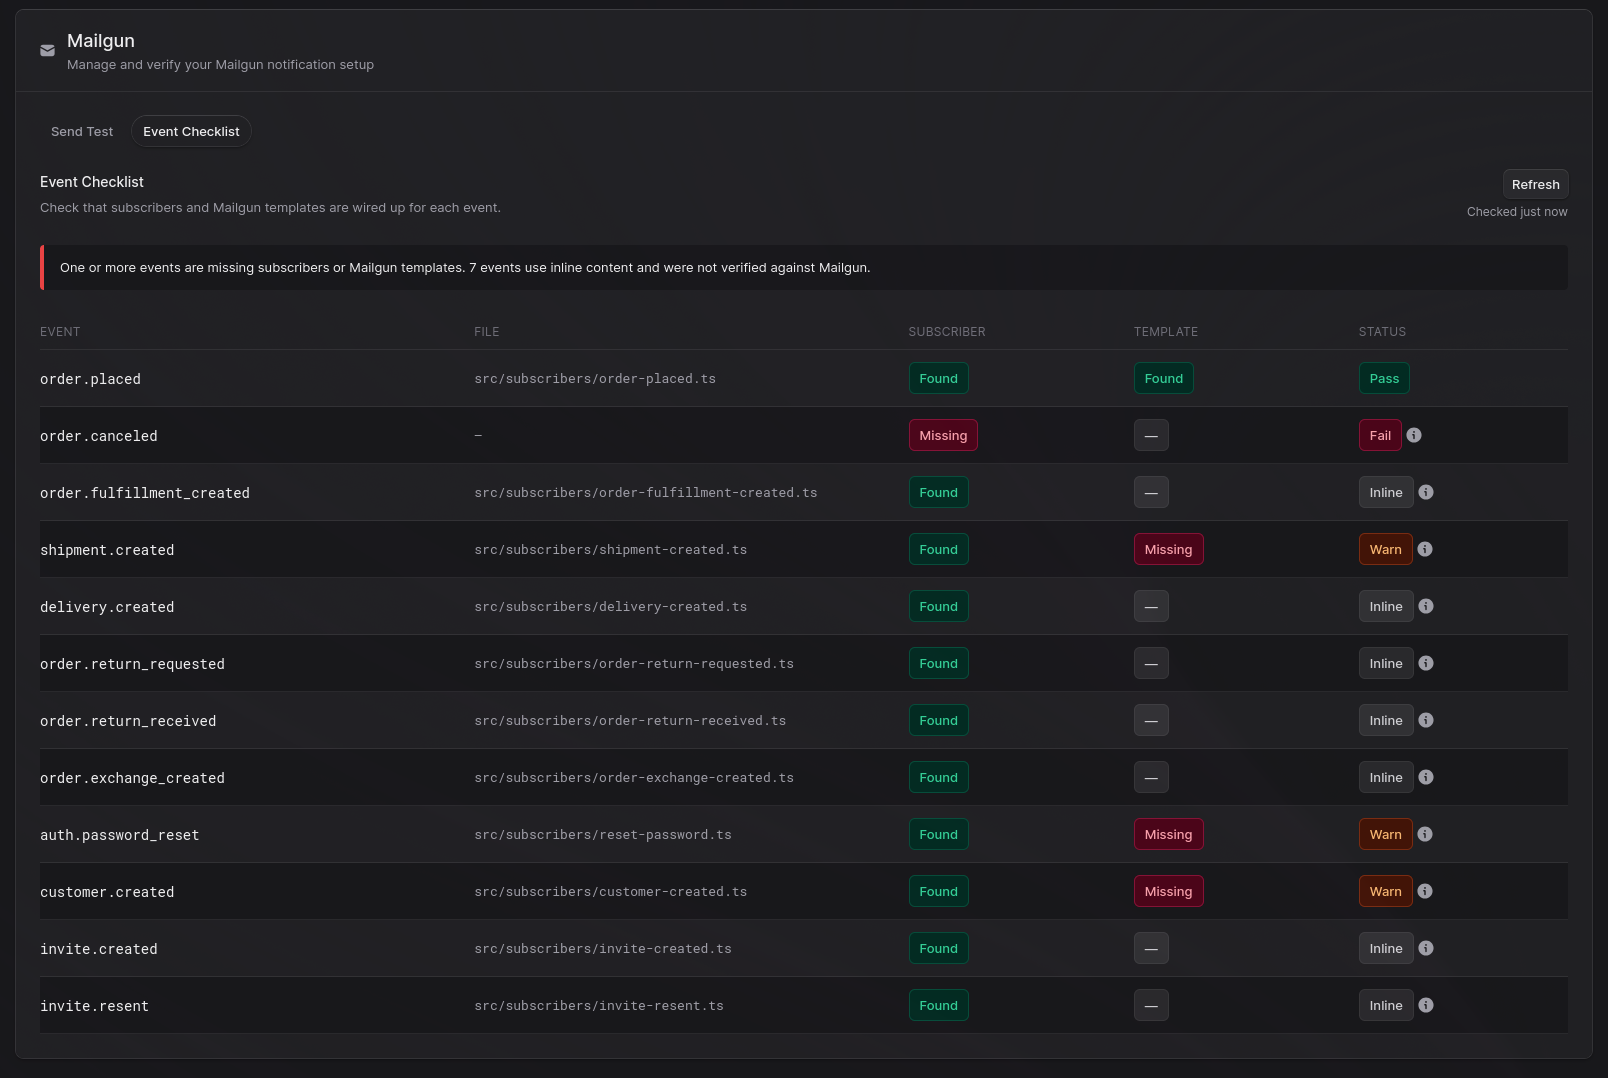
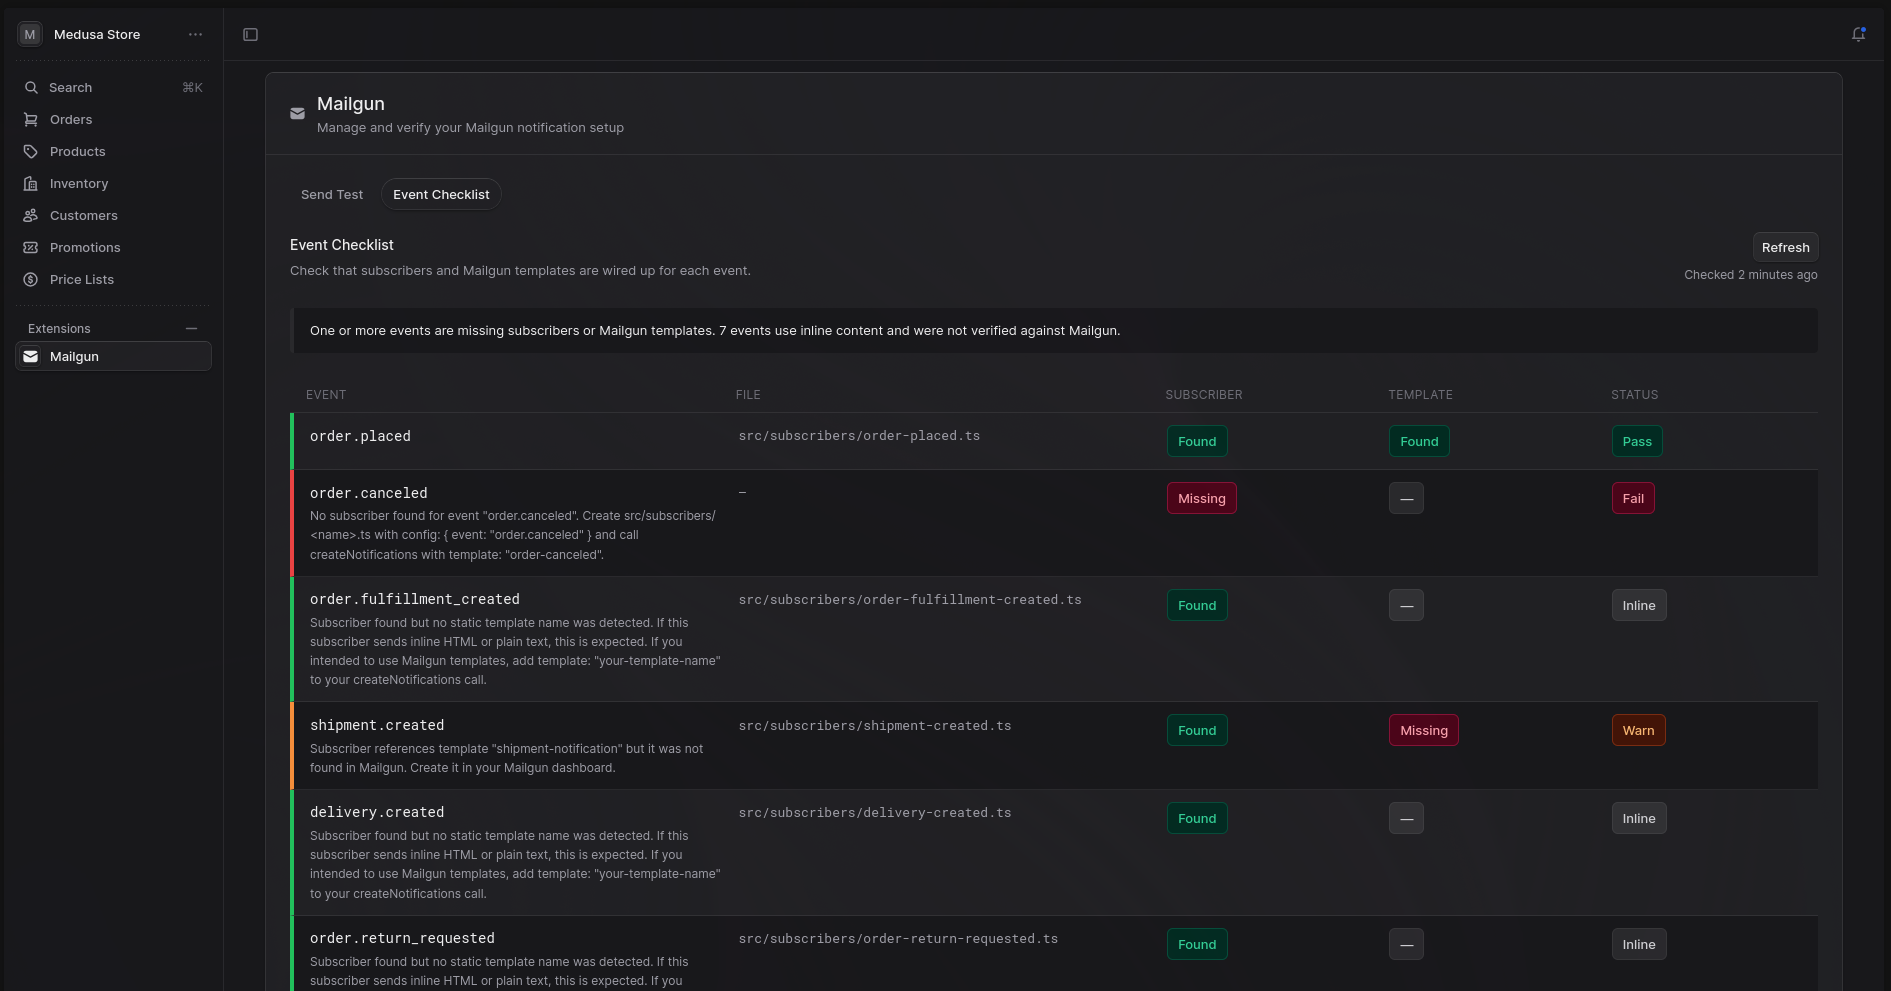
Redesign checklist hint display with color-coded row borders
Replace accordion-style hint toggle with Option D: persistent hint text
rendered as a second line under the event name, and a color-coded left
border (green/orange/red) on each row indicating pass/warn/fail status.
Removes expandedHint state, InformationCircleSolid icon, and the orphaned
1rem icon column.

diff --git a/src/admin/routes/mailgun/page.tsx b/src/admin/routes/mailgun/page.tsx
@@ -16,7 +16,7 @@ import {
   Badge,
   Tooltip,
 } from "@medusajs/ui"
-import { EnvelopeSolid, PlusMini, Trash, InformationCircleSolid } from "@medusajs/icons"
+import { EnvelopeSolid, PlusMini, Trash } from "@medusajs/icons"
 import { sdk } from "../../lib/sdk"
 
 // ---------------------------------------------------------------------------
@@ -340,7 +340,6 @@ const SendTestTab = () => {
 
 const ChecklistTab = () => {
   const [checklistEnabled, setChecklistEnabled] = useState(false)
-  const [expandedHint, setExpandedHint] = useState<string | null>(null)
   const [, forceUpdate] = useState(0)
 
   const { data: checklist, isFetching, isError, error, refetch } = useQuery<ChecklistResponse>({
@@ -366,12 +365,6 @@ const ChecklistTab = () => {
     const interval = setInterval(() => forceUpdate((n) => n + 1), 60_000)
     return () => clearInterval(interval)
   }, [checklist])
-
-  const statusBorderClass = (status: "pass" | "warn" | "fail") => {
-    if (status === "pass") return "border-l-4 border-green-500 bg-ui-bg-subtle"
-    if (status === "warn") return "border-l-4 border-orange-400 bg-ui-bg-subtle"
-    return "border-l-4 border-red-500 bg-ui-bg-subtle"
-  }
 
   const statusMessage = (status: "pass" | "warn" | "fail", inlineCount: number) => {
     const inlineNote = inlineCount > 0
@@ -435,7 +428,7 @@ const ChecklistTab = () => {
 
       {/* Top-level status bar */}
       {checklist && !isError && (
-        <div className={`px-4 py-3 rounded ${statusBorderClass(checklist.status)}`}>
+        <div className={`px-4 py-3 rounded border-l-4 border-grey-500 bg-ui-bg-subtle`}>
           <Text size="small">{statusMessage(checklist.status, checklist.inline_count)}</Text>
         </div>
       )}
@@ -465,7 +458,7 @@ const ChecklistTab = () => {
       {checklist && !isError && checklist.events.length > 0 && (
         <div className="flex flex-col">
           {/* Header */}
-          <div className="grid grid-cols-[2fr_2fr_1fr_1fr_1fr] gap-x-4 py-2 border-b border-ui-border-base">
+          <div className="grid grid-cols-[2fr_2fr_1fr_1fr_1fr] gap-x-4 py-2 pl-4 border-b border-ui-border-base">
             <Text size="xsmall" className="text-ui-fg-muted uppercase tracking-wide">Event</Text>
             <Text size="xsmall" className="text-ui-fg-muted uppercase tracking-wide">File</Text>
             <Text size="xsmall" className="text-ui-fg-muted uppercase tracking-wide">Subscriber</Text>
@@ -475,76 +468,58 @@ const ChecklistTab = () => {
 
           {/* Rows */}
           {checklist.events.map((event, index) => (
-            <div key={event.event} className="flex flex-col">
-              {/* Main row */}
-              <div
-                className={`grid grid-cols-[2fr_2fr_1fr_1fr_1fr] gap-x-4 py-3 items-center border-b border-ui-border-base ${
-                  index % 2 === 0 ? "bg-ui-bg-base" : "bg-ui-bg-subtle"
-                }`}
-              >
-                {/* Event name */}
+            <div
+              key={event.event}
+              className={`grid grid-cols-[2fr_2fr_1fr_1fr_1fr] gap-x-4 py-3 pl-4 items-start border-b border-ui-border-base border-l-4 ${
+                event.status === "fail"
+                  ? "border-l-red-500"
+                  : event.status === "warn"
+                  ? "border-l-orange-400"
+                  : "border-l-green-500"
+              } ${index % 2 === 0 ? "bg-ui-bg-base" : "bg-ui-bg-subtle"}`}
+            >
+              {/* Event name + hint */}
+              <div className="flex flex-col gap-y-1">
                 <span className="font-mono text-sm">{event.event}</span>
-
-                {/* Subscriber file */}
-                <Text size="small" className="text-ui-fg-subtle font-mono truncate">
-                  {event.subscriber_file ?? "—"}
-                </Text>
-
-                {/* Subscriber found badge */}
-                <div>
-                  {event.subscriber_found ? (
-                    <Badge color="green">Found</Badge>
-                  ) : (
-                    <Badge color="red">Missing</Badge>
-                  )}
-                </div>
-
-                {/* Template exists badge */}
-                <div>
-                  {event.status === "inline" ? (
-                    <Badge color="grey">—</Badge>
-                  ) : event.template_exists_in_mailgun === true ? (
-                    <Badge color="green">Found</Badge>
-                  ) : event.template_exists_in_mailgun === false ? (
-                    <Badge color="red">Missing</Badge>
-                  ) : (
-                    <Badge color="grey">—</Badge>
-                  )}
-                </div>
-
-                {/* Status badge + hint icon */}
-                <div className="flex items-center gap-x-1">
-                  {event.status === "pass" && <Badge color="green">Pass</Badge>}
-                  {event.status === "warn" && <Badge color="orange">Warn</Badge>}
-                  {event.status === "inline" && <Badge color="grey">Inline</Badge>}
-                  {event.status === "fail" && <Badge color="red">Fail</Badge>}
-                  {event.hint && (
-                    <button
-                      type="button"
-                      className="text-ui-fg-subtle hover:text-ui-fg-base focus:outline-none"
-                      onClick={() =>
-                        setExpandedHint(
-                          expandedHint === event.event ? null : event.event
-                        )
-                      }
-                      title="Show hint"
-                    >
-                      <InformationCircleSolid className="w-4 h-4" />
-                    </button>
-                  )}
-                </div>
+                {event.hint && (
+                  <Text size="xsmall" className="text-ui-fg-subtle">{event.hint}</Text>
+                )}
               </div>
 
-              {/* Hint subrow */}
-              {expandedHint === event.event && event.hint && (
-                <div
-                  className={`col-span-5 bg-ui-bg-subtle px-4 py-2 rounded border-b border-ui-border-base ${
-                    index % 2 === 0 ? "bg-ui-bg-base" : "bg-ui-bg-subtle"
-                  }`}
-                >
-                  <Text size="small">Hint: {event.hint}</Text>
-                </div>
-              )}
+              {/* Subscriber file */}
+              <Text size="small" className="text-ui-fg-subtle font-mono truncate">
+                {event.subscriber_file ?? "—"}
+              </Text>
+
+              {/* Subscriber found badge */}
+              <div>
+                {event.subscriber_found ? (
+                  <Badge color="green">Found</Badge>
+                ) : (
+                  <Badge color="red">Missing</Badge>
+                )}
+              </div>
+
+              {/* Template exists badge */}
+              <div>
+                {event.status === "inline" ? (
+                  <Badge color="grey">—</Badge>
+                ) : event.template_exists_in_mailgun === true ? (
+                  <Badge color="green">Found</Badge>
+                ) : event.template_exists_in_mailgun === false ? (
+                  <Badge color="red">Missing</Badge>
+                ) : (
+                  <Badge color="grey">—</Badge>
+                )}
+              </div>
+
+              {/* Status badge */}
+              <div>
+                {event.status === "pass" && <Badge color="green">Pass</Badge>}
+                {event.status === "warn" && <Badge color="orange">Warn</Badge>}
+                {event.status === "inline" && <Badge color="grey">Inline</Badge>}
+                {event.status === "fail" && <Badge color="red">Fail</Badge>}
+              </div>
             </div>
           ))}
         </div>
